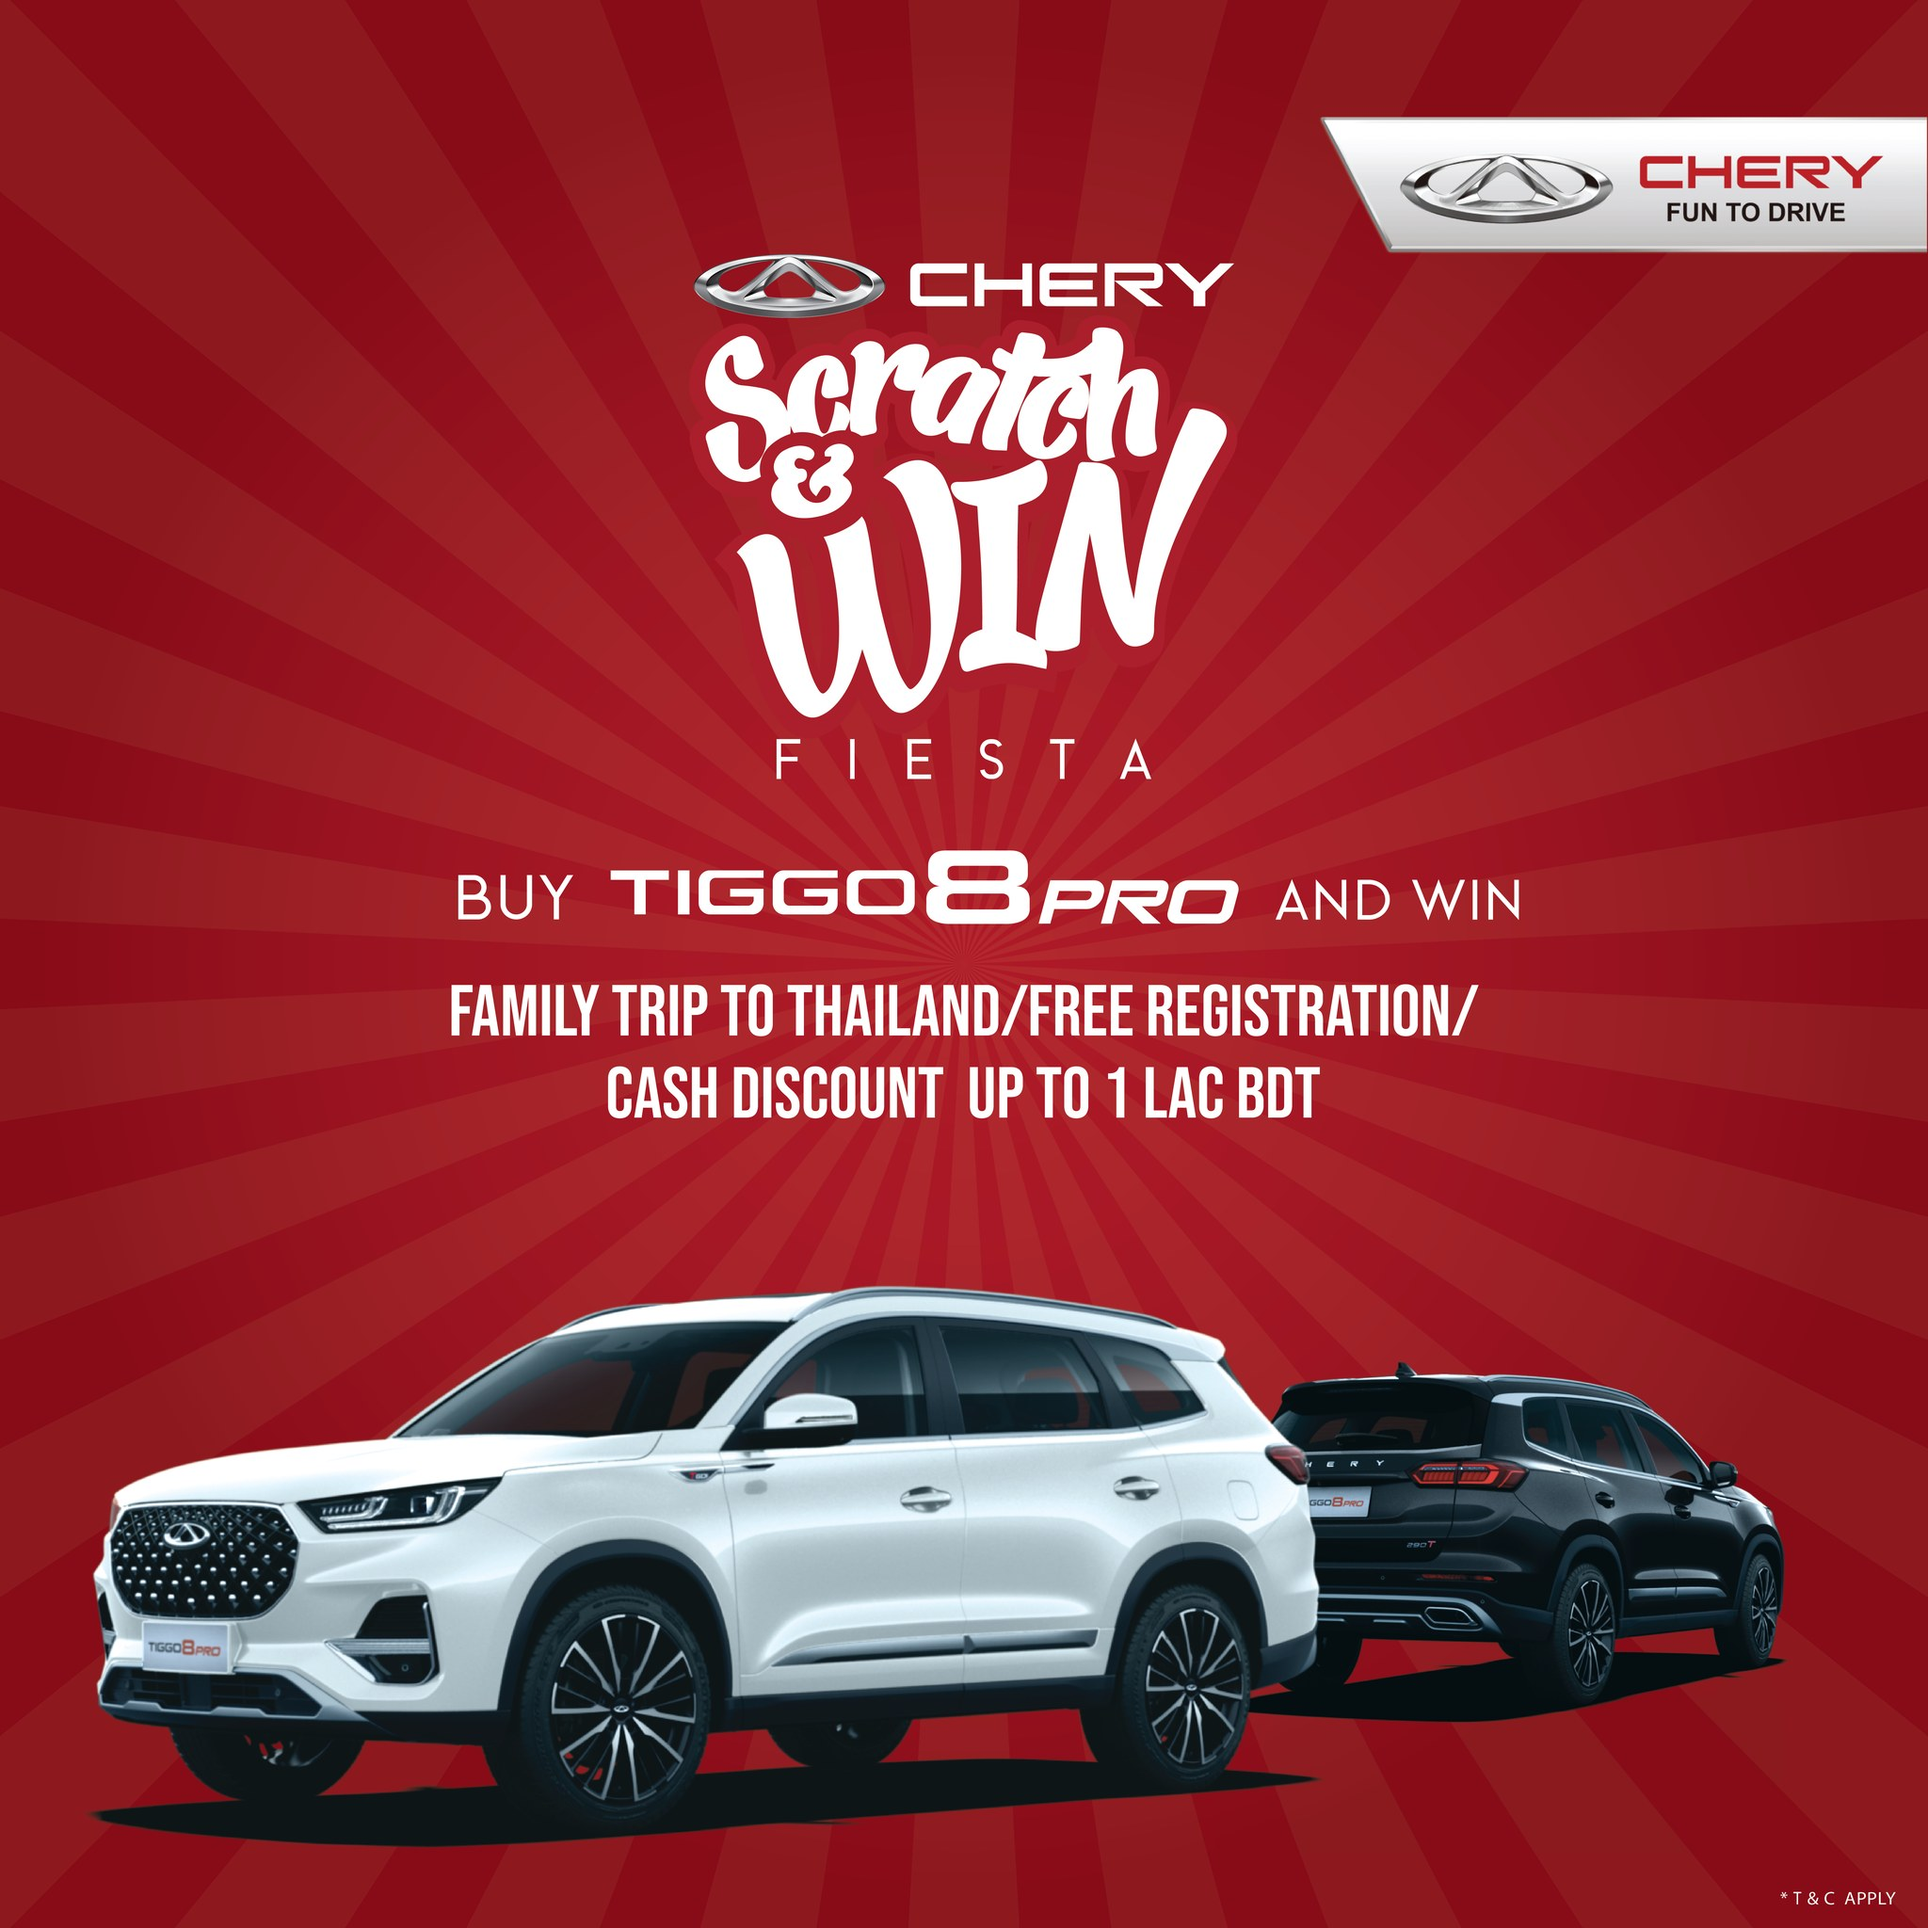
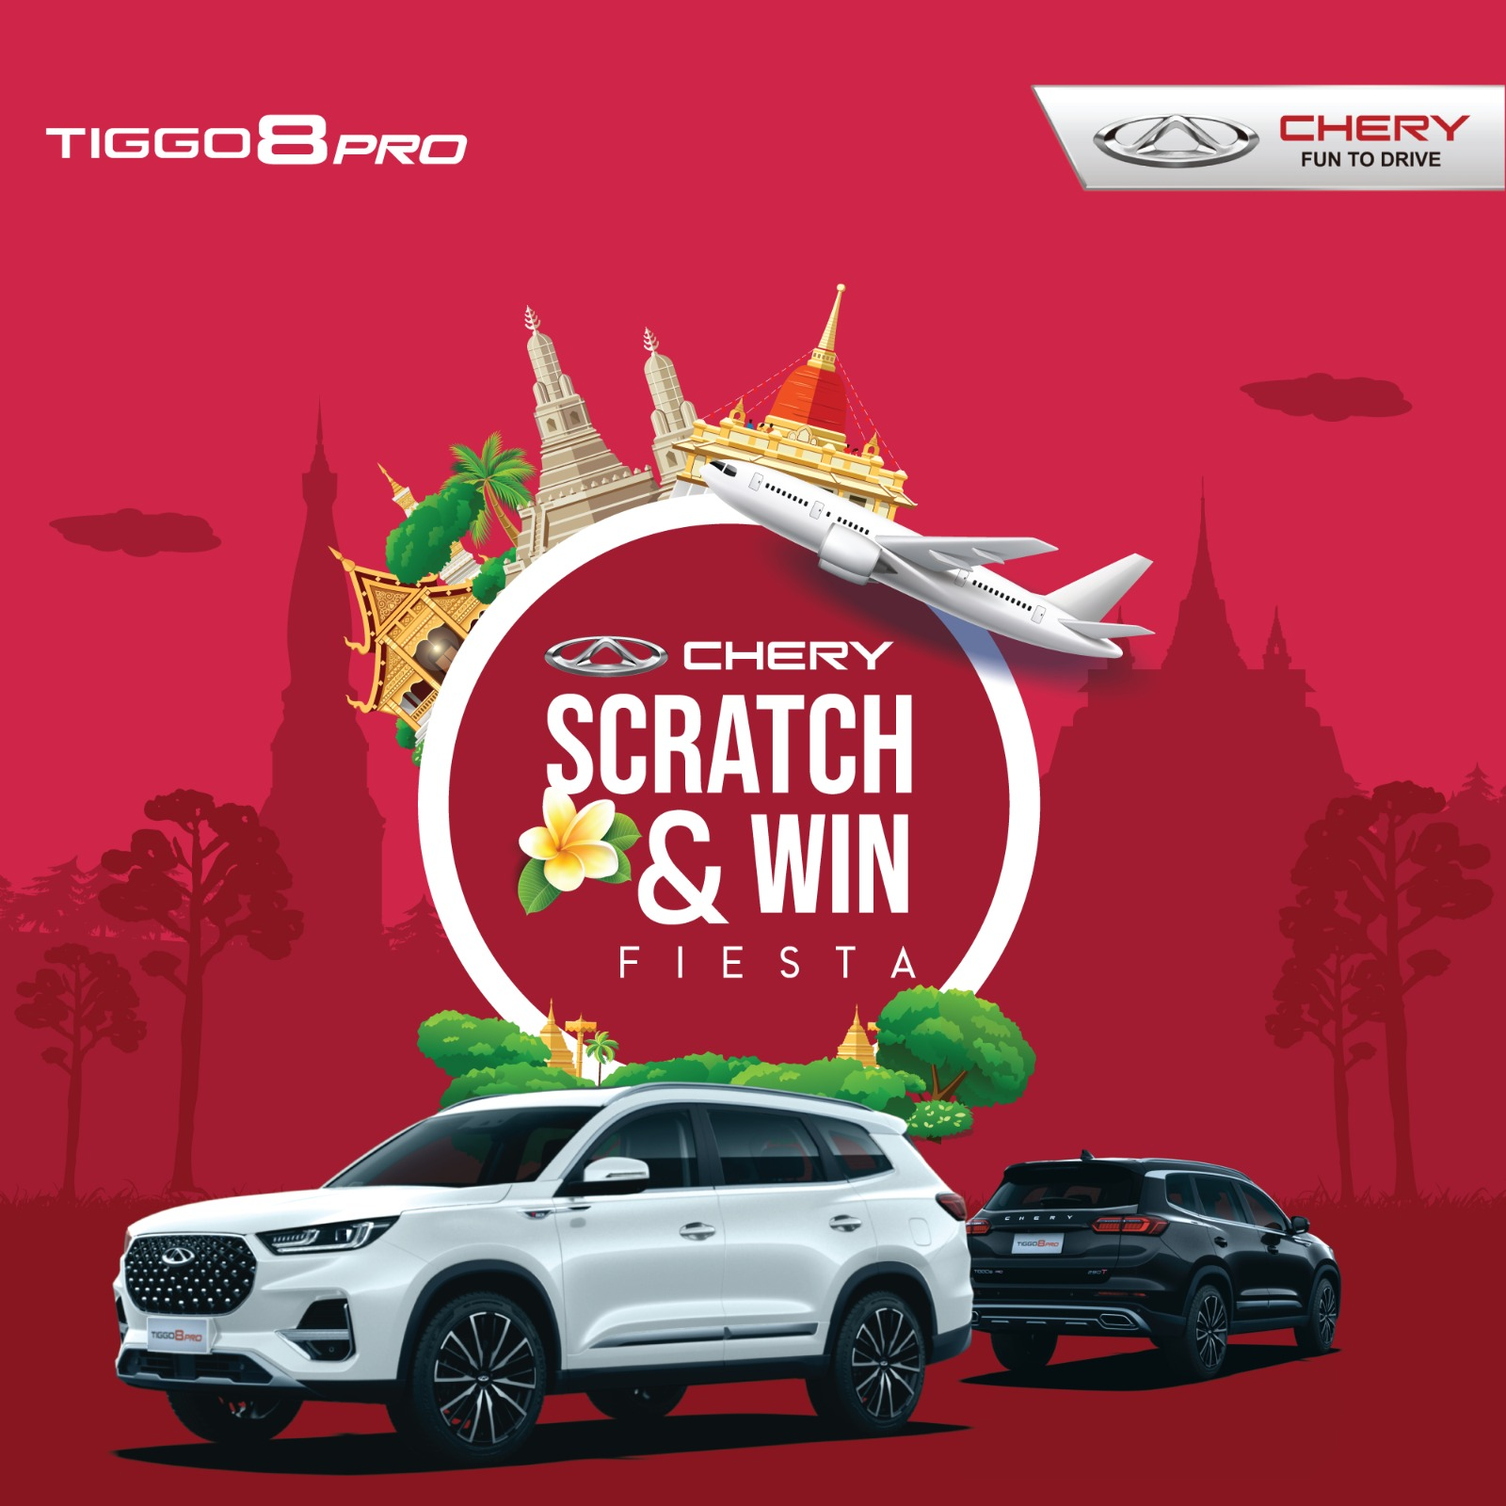
added thai bg with text

diff --git a/website-theme-template-to-launch-e-bike-sacredthemes.html b/website-theme-template-to-launch-e-bike-sacredthemes.html
@@ -176,8 +176,7 @@
                                                 </li>
                                                 <li class="block3">
                                                     <div class="icon icon3">
-                                                        <img src="./images/2. Free registratin.png" alt=""
-                                                            class="img-fluid">
+                                                        <img src="./images/" alt="" class="img-fluid">
                                                         <p class="icon-text">3. Cash Discount (up to 1 lac)</p>
                                                     </div>
                                                 </li>
@@ -493,6 +492,47 @@
                 </div>
             </section>
             <!--* About Section End -->
+            <!--* Variation Section Start -->
+            <section id="variation" class="color-section bus-layout" style="position: relative;">
+                <div class="section-background">
+                    <div class="background-wrapper">
+                        <div class="background-inner"
+                            style="background-image: url('./images/chery_campaign_thailand_bg.png'); background-repeat: no-repeat;background-position: bottom ; background-size:auto;z-index: 0;">
+                        </div>
+                    </div>
+                </div>
+                <div class="container">
+                    <div class="row">
+                        <div class="col-lg-4 col-12 pt-lg-5">
+                            <div class="heading-wrapper pt-lg-5">
+                                <h2 class="large-heading text-uppercase" style="color: #000;"><span>Pick Your
+                                        Dream</span> Car </h2>
+                                <p>
+                                    Looking for a fast, fun, and exciting way to score your dream ride? Our Scratch and
+                                    Win campaign lets you do just that! Imagine winning the keys to the car you’ve
+                                    always wanted—all it takes is a little luck.
+                                </p>
+                            </div>
+                        </div>
+                        <!-- <div class=" col-lg-7 col-12 pt-lg-5">
+                            <div class="pt-lg-5">
+                                <div class="color-variation-slider owl-carousel m-top-30">
+                                    <div class="item pt-5" data-color="red">
+                                        <img src="./images/cap-img-1.png" alt="" class="img-fluid">
+                                    </div>
+                                    <div class="item mt-5" data-color="golden">
+                                        <img src="./images/cap-img-2.png" alt="" class="img-fluid">
+                                    </div>
+                                    <div class="item mt-5" data-color="gray-blue">
+                                        <img src="images/cap-img-3.png" alt="" class="img-fluid">
+                                    </div>
+                                </div>
+                            </div>
+                        </div> -->
+                    </div>
+                </div>
+            </section>
+            <!--* Variation Section end -->
 
             <!--* Enviornment impact section start -->
             <section id="impact" class="gallery-section  light-text"
